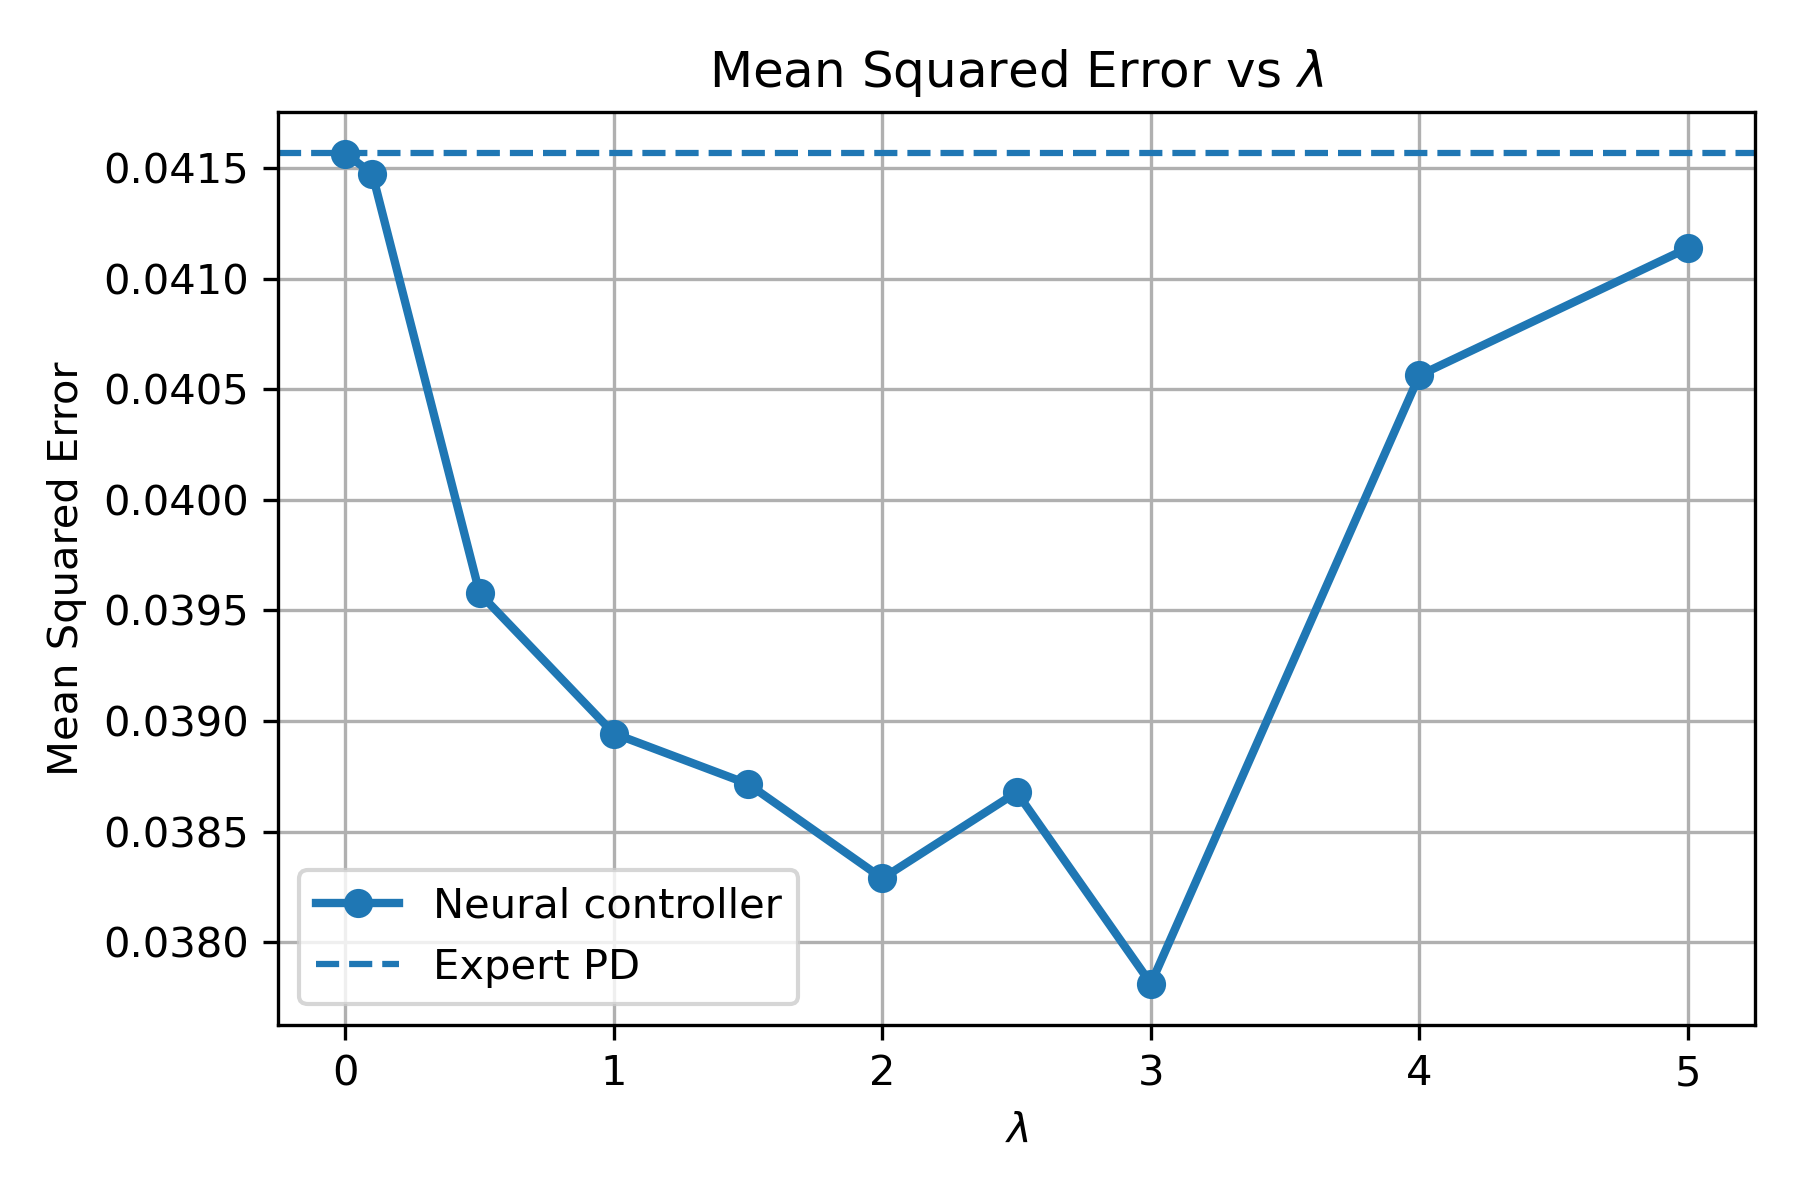
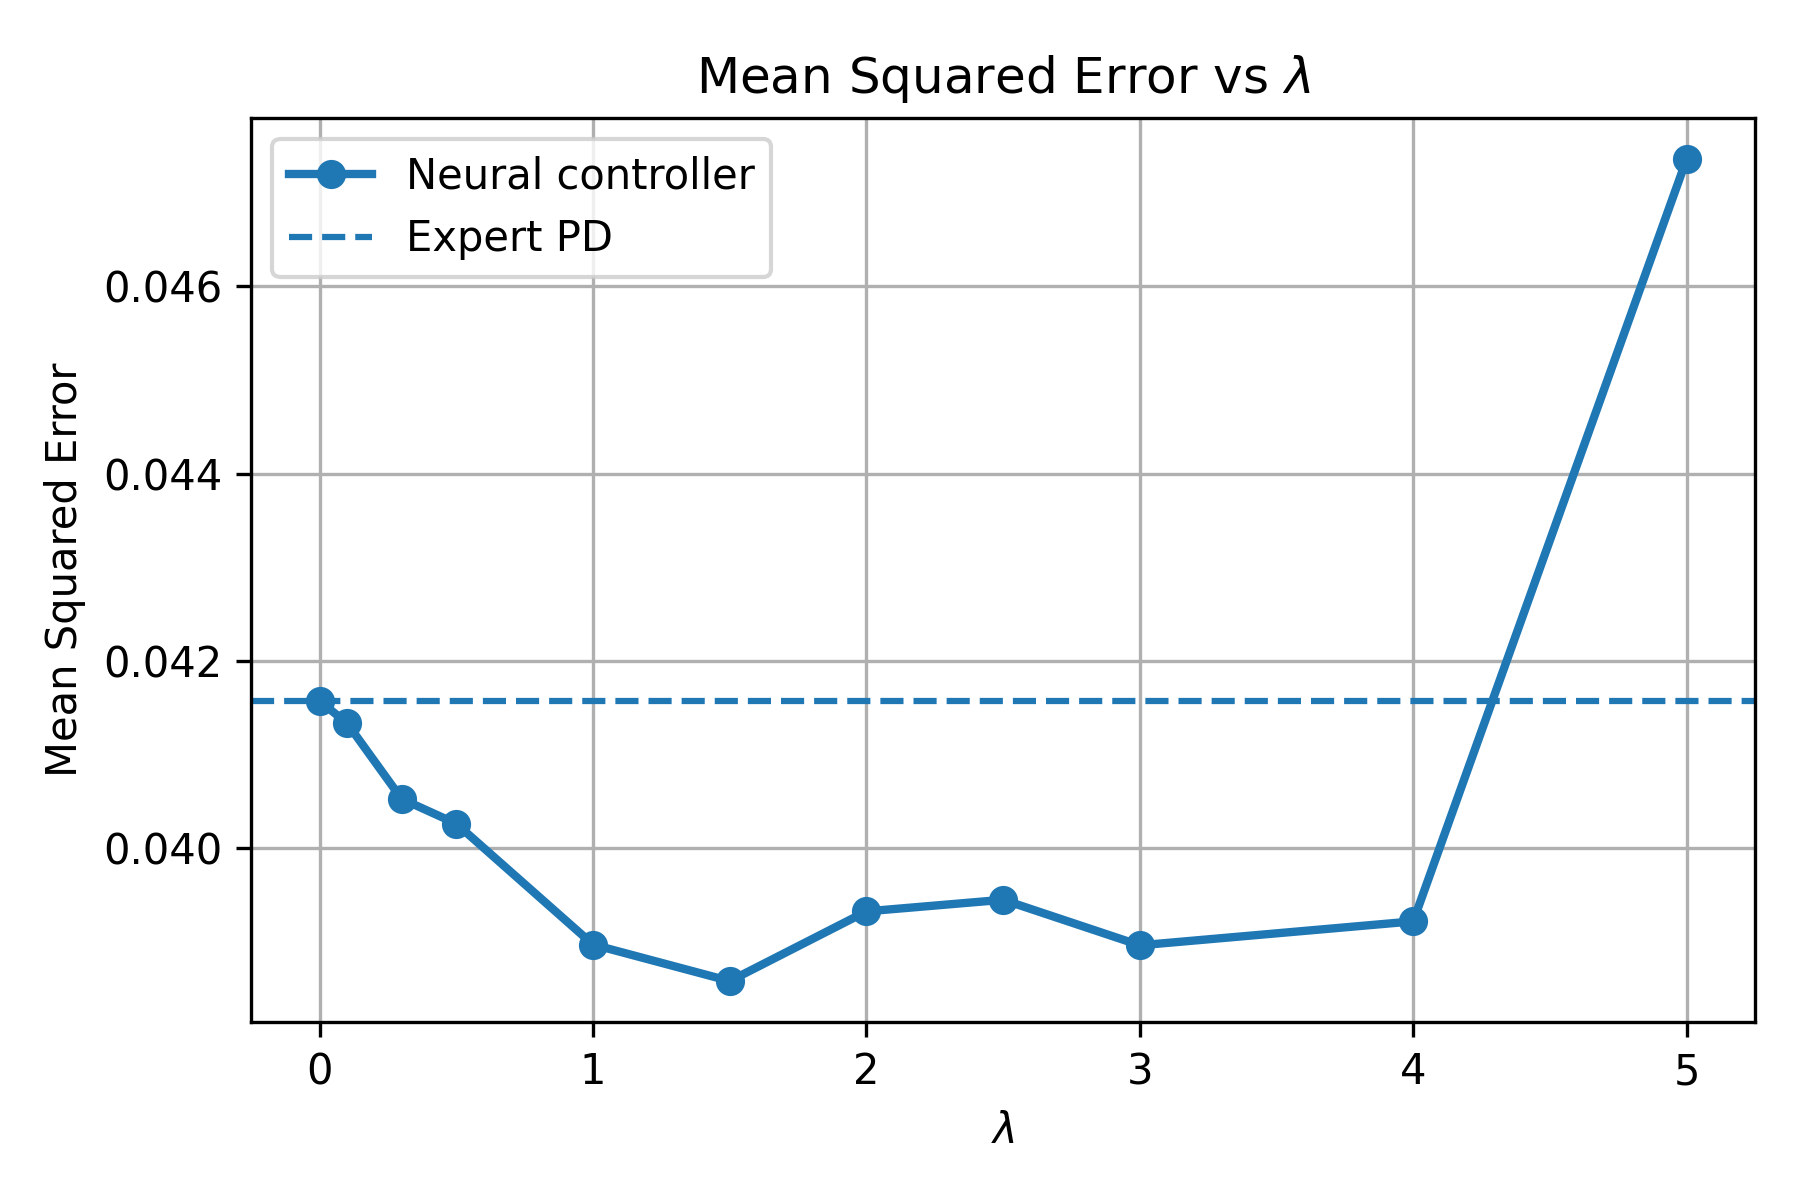
new oscillator results

diff --git a/oscillator/results/results_analysis.py b/oscillator/results/results_analysis.py
@@ -1,10 +1,11 @@
 import re
 import pandas as pd
 import matplotlib.pyplot as plt
+import sys
 
-csv_file= 'eval_results_2026_07_03_12_01_.csv'
-
-df = pd.read_csv(f"oscillator/results/{csv_file}")
+csv_file = sys.argv[1]
+#csv_file = "oscillator/results/eval_results_2026_07_03_12_01_.csv"
+df = pd.read_csv(csv_file)
 
 for col in ["mse", "settling_time", "control_cost", "success"]:
     df[col] = (

diff --git a/oscillator/model_eval.py b/oscillator/model_eval.py
@@ -158,3 +158,5 @@ for model_path in glob.glob(os.path.join(model_dir, "*.pt")):
 df = pd.DataFrame(all_results)
 output_path = f"oscillator/results/eval_results_{timestamp}.csv"
 df.to_csv(output_path, index=False)
+
+print(output_path)
